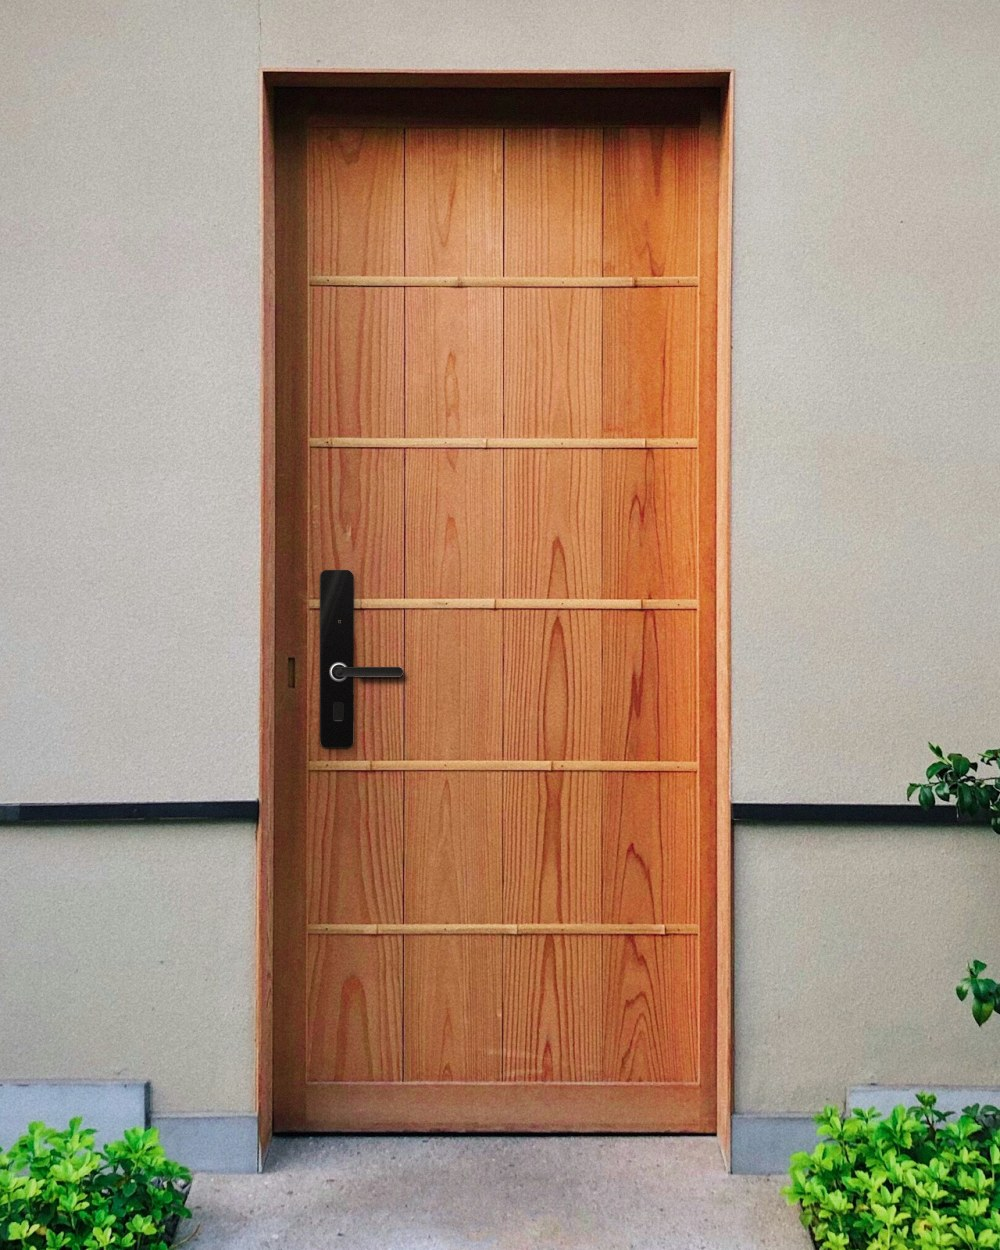
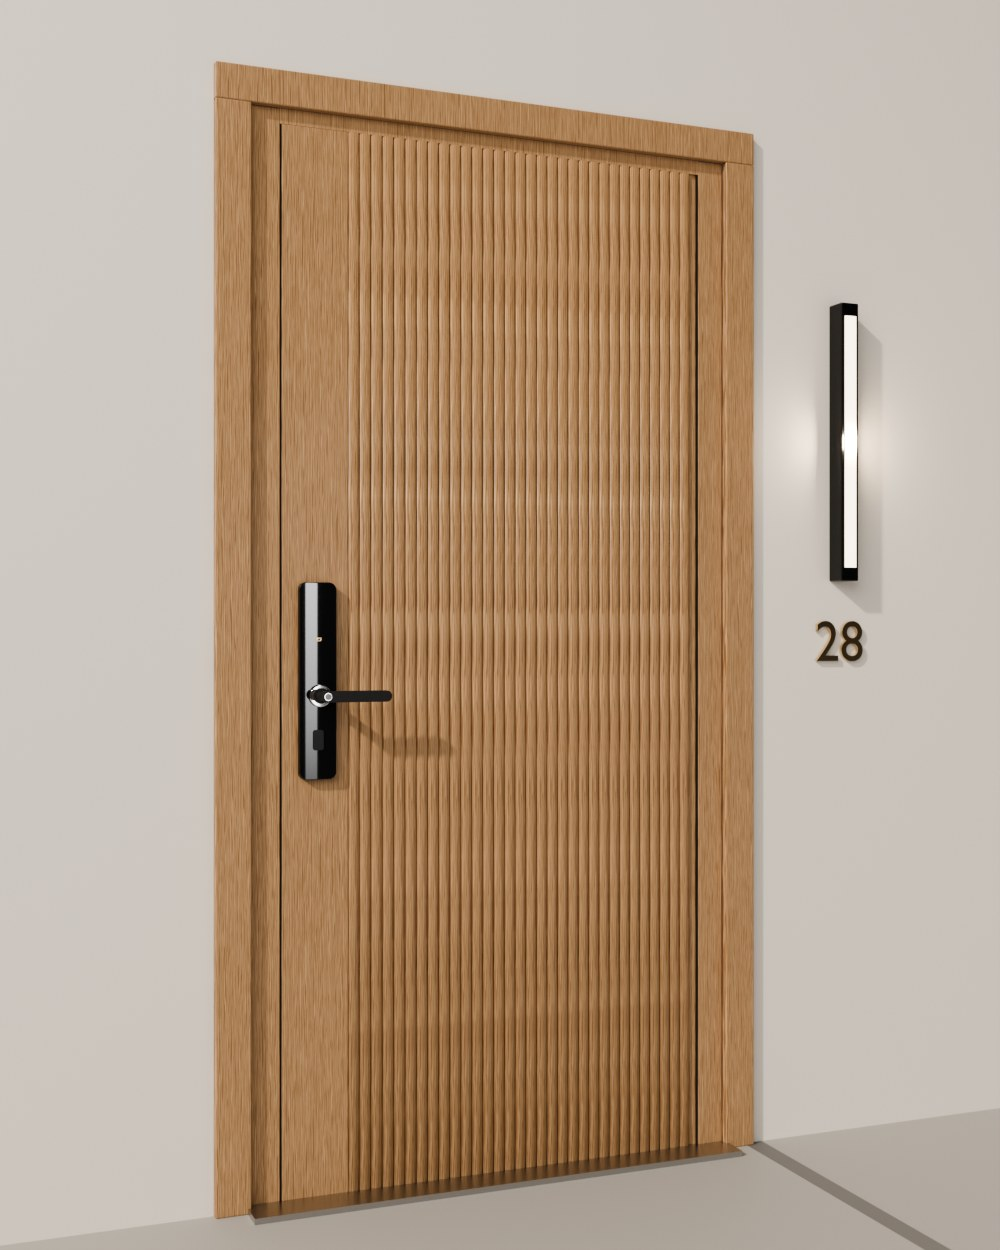
Matching studio render for the Made for Markham homes image

diff --git a/index.html b/index.html
@@ -298,7 +298,7 @@
 <!-- WHO IT'S FOR -->
 <section class="dark">
   <div class="wrap split split-aud">
-    <img src="assets/photo-door-wide.jpg" alt="Modern oak front door with the black smart lock fitted" width="1000" height="1250" loading="lazy">
+    <img src="assets/photo-door-wide.jpg" alt="Fluted oak front door with the black smart lock fitted, beside a wall light and house number" width="1000" height="1250" loading="lazy">
     <div>
     <h2><span class="en">Made for Markham homes.</span><span class="zh">为万锦家庭而选。</span></h2>
     <p class="sub"><span class="en">Detached homes, semis and townhouses with a front, side or garage-entry door.</span><span class="zh">适用于独立屋、半独立屋及镇屋的前门、侧门或车库入户门。</span></p>
@@ -470,7 +470,6 @@
   <div class="wrap">
     <span>© <span id="yr"></span> <span data-config="businessName">Markham Smart Lock</span> · Markham, Ontario</span>
     <span><span class="en">Featuring the EBKN KF6628 smart lock. EBKN is a trademark of its owner; we are an independent local installer.</span><span class="zh">产品为 EBKN KF6628 智能门锁。EBKN 为其所有者的商标；本店为独立本地安装商。</span></span>
-    <span><span class="en">Door photo background by Korie Cull on Unsplash.</span><span class="zh">门的背景照片：Korie Cull / Unsplash。</span></span>
   </div>
 </footer>
 

diff --git a/README.md b/README.md
@@ -4,7 +4,7 @@ A one-page bilingual (English / 简体中文) site for GitHub Pages.
 
 ## Files
 - `index.html` — the whole site (styles and script included)
-- `assets/` — `photo-lock-hero.jpg` (Blender studio render of the lock on a fluted oak door), lock-on-door photos (your lock, cleaned up and placed on a door; door background by Korie Cull on Unsplash), SVG illustrations, and the social share image
+- `assets/` — `photo-lock-hero.jpg` and `photo-door-wide.jpg` (Blender studio renders of the lock on a fluted oak door), SVG illustrations, and the social share image
 
 ## Before publishing
 Open `index.html`, scroll to the bottom and fill in `CONFIG`:
